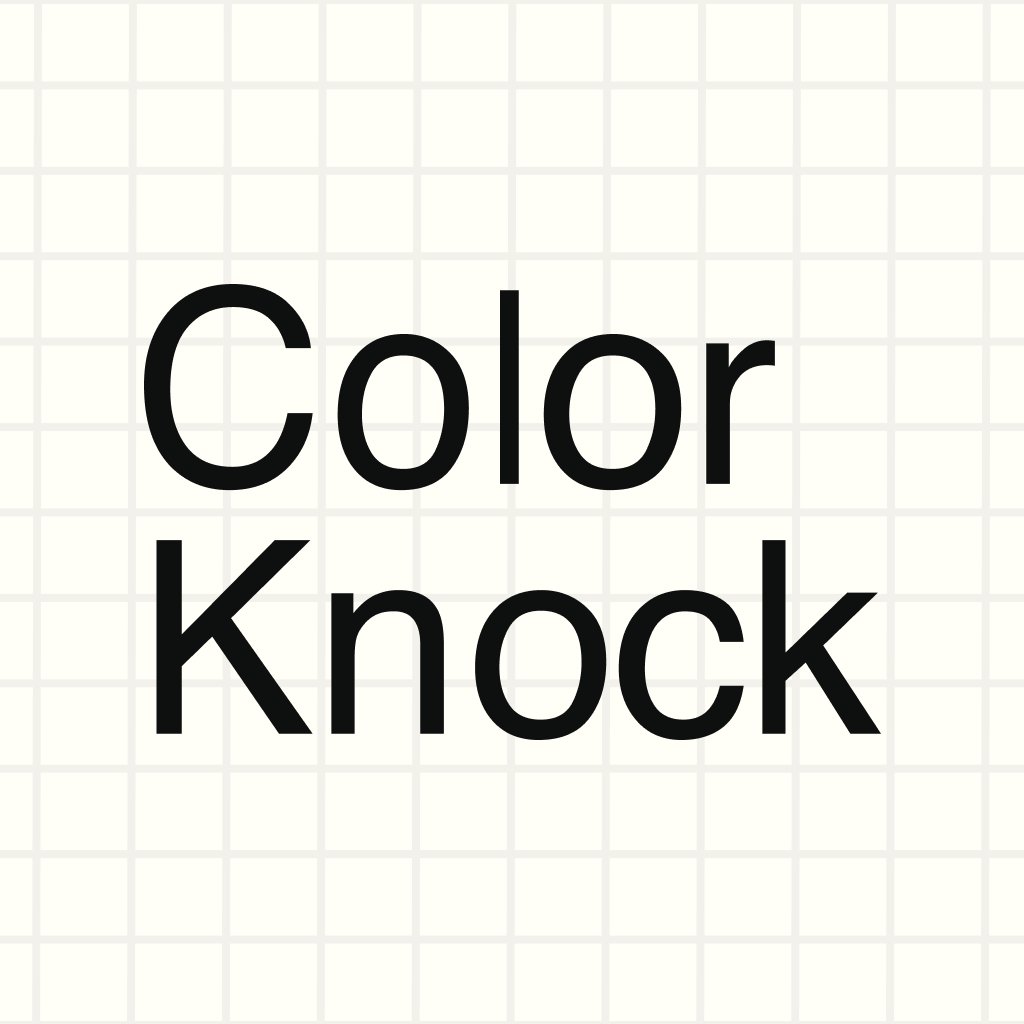
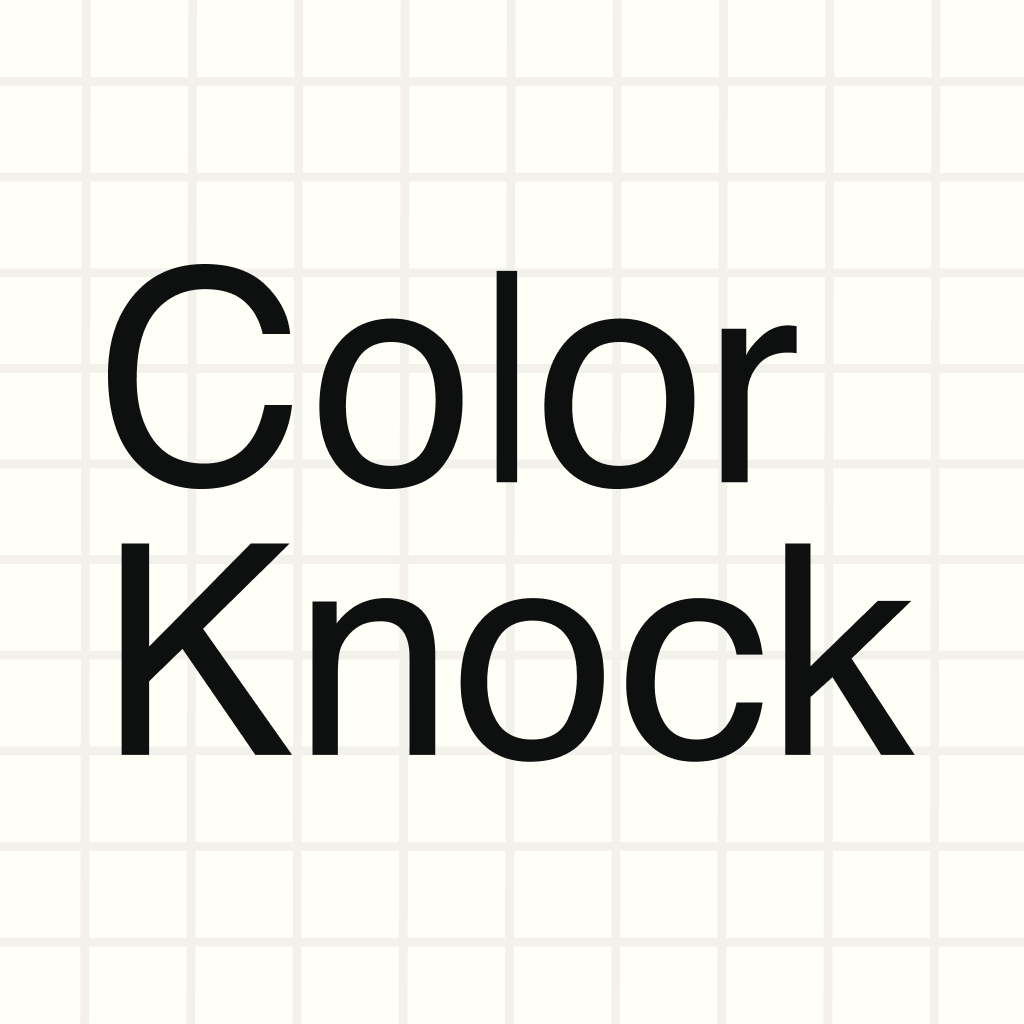
change style

Changed region(s): [[0.0938, 0.5312, 0.9062, 0.75], [0.0938, 0.25, 0.5312, 0.5], [0.5312, 0.3125, 0.7812, 0.5]]

diff --git a/constants/Colors.ts b/constants/Colors.ts
@@ -1,6 +1,6 @@
 export const colors2 = [
-    { "name": "鴇色", "hex": "#F9A1D0", "pccs": "lt24+", "munsell": "7RP 7.5/8", "ruby": "ときいろ", "desc": "トキの翼の内側や風切羽、尾羽などは明るいピンクをしているが、その色からとられた近世の和装で流行した色名。<br>トキの体色は一見すると白だが、飛ぶときにはピンクが見える。<br>昔は日本各地に生息していたので、人々はその色も知っていたのだろう。", "origin": "japanese" },
-    { "name": "韓紅花", "hex": "#E3557F", "pccs": "b2", "munsell": "1.5R 5.5/13", "ruby": "からくれない", "desc": "日本で呉(くれ)と呼んだ中国の地域から渡来した天然の素材という意味で、紅花の赤を「呉藍(くれない)」と呼んでいたことに由来する。<br>平安時代から使われるようになった伝統的な色名。<br>王朝貴族に愛された紅の色だった。", "origin": "japanese" },
+    { "name": "鴇色", "hex": "#fa9cb8", "pccs": "lt24+", "munsell": "7RP 7.5/8", "ruby": "ときいろ", "desc": "トキの翼の内側や風切羽、尾羽などは明るいピンクをしているが、その色からとられた近世の和装で流行した色名。<br>トキの体色は一見すると白だが、飛ぶときにはピンクが見える。<br>昔は日本各地に生息していたので、人々はその色も知っていたのだろう。", "origin": "japanese" },
+    { "name": "韓紅花", "hex": "#e64b6b", "pccs": "b2", "munsell": "1.5R 5.5/13", "ruby": "からくれない", "desc": "日本で呉(くれ)と呼んだ中国の地域から渡来した天然の素材という意味で、紅花の赤を「呉藍(くれない)」と呼んでいたことに由来する。<br>平安時代から使われるようになった伝統的な色名。<br>王朝貴族に愛された紅の色だった。", "origin": "japanese" },
     { "name": "蘇芳", "hex": "#974B52", "pccs": "d2", "munsell": "4R 4/7", "ruby": "すおう", "desc": "インド、マレー半島などを原産地とするマメ科植物の心材を原料とし、その煎汁を天然の素材として染めた色の色名。<br>マレー語のsapangの音に中国人が漢字をあてたのでいろいろな表記がある。<br>この天然の素材は奈良時代にすでに日本に渡来していた。", "origin": "japanese" },
     { "name": "鳶色", "hex": "#7D483E", "pccs": "dk4", "munsell": "7.5R 3.5/5", "ruby": "とびいろ", "desc": "トビは「とんび」ともいう鳥のことで、その羽のような色のこと。<br>鳥の羽の色からとられた色名としては鶸色(ひわいろ)に次いで古いが、それでも近世のこと。<br>江戸時代の前期から用いられるようになった茶色染色の色名。", "origin": "japanese" },
     { "name": "海老茶", "hex": "#6D3D33", "pccs": "dk4", "munsell": "8R 3/4.5", "ruby": "えびちゃ", "desc": "葡萄(ぶどう)の古名を「えび」といった。<br>平安時代の「えびいろ」は山葡萄の果実のような暗い赤紫のこと。<br>近世に葡萄を「えび」とは読まなくなったので、海老の字が当てられてこの色になった。", "origin": "japanese" },
@@ -12,10 +12,10 @@ export const colors2 = [
     { "name": "琥珀色", "hex": "#BF783A", "pccs": "d6", "munsell": "8YR 5.5/6.5", "ruby": "こはくいろ", "desc": "琥珀は植物の樹脂が化石になったもので、そのような色を表す。<br>古名は赤玉、または「くはく」といった。<br>日本語の色名で宝石からとられたものは珍しいが、色名として用いられたのは近代のこと。<br>酒類の色を形容するときによく使われる。", "origin": "japanese" },
     { "name": "朽葉色", "hex": "#897868", "pccs": "dkg9", "munsell": "10YR 5/2", "ruby": "くちばいろ", "desc": "朽ちた落ち葉のような色。<br>この色を中心に、赤みがあれば赤朽葉、黄みは黄朽葉、緑みがあれば青朽葉と呼び分けた。<br>ほかにも朽葉のつく色名がいくつかある。<br>伝統的な色名の中でも特に晩秋の季節感が濃厚な、平安中期からの色名。", "origin": "japanese" },
     { "name": "鬱金色", "hex": "#FCAC00", "pccs": "dkg8", "munsell": "2Y 7.5/12", "ruby": "うこんいろ", "desc": "ショウガ科の植物であるウコンの根で染めた黄の色名。<br>ウコンは原産地の熱帯アジアでは古くから知られていたが、日本では中世末から用いられるようになった。<br>今でも漬物のたくあんの着色やカレー粉の原料などに使用されている。", "origin": "japanese" },
-    { "name": "刈安色", "hex": "#EED67E", "pccs": "sf8", "munsell": "7Y 8.5/7", "ruby": "かりやすいろ", "desc": "奈良時代から黄の染色に用いられてきたイネ科の刈安草は、刈りやすいからこの名がつけられたという。<br>単独で黄を染めるほか、緑を染めるための藍の下染めによく用いられた。<br>古来の染色技術から生まれた伝統的な色名。", "origin": "japanese" },
-    { "name": "黄櫨染", "hex": "#AD4D00", "pccs": "d4", "munsell": "9.5R 4.5/2.5", "ruby": "こうろぜん", "desc": "ミカン科の樹木キハダの樹皮の内皮の色素を天然の素材として染めた色の色名。<br>防虫効果があることから奈良時代から染め紙に用いられ、藍との重ね染めで緑や藍色の染色にも用いられていた。<br>古来の染色材料を今に記録する伝統的な色名の一つ。", "origin": "japanese" },
-    { "name": "海松色", "hex": "#736F55", "pccs": "d11", "munsell": "7.5GY 4/3", "ruby": "みるいろ", "desc": "海藻の一種であるミルは、「万葉集」に海松を詠みこんだ歌が出てくるほど、広く知られていたらしい。<br>現在では一般的なじみがなくなってしまったが、中世以降はオリーブグリーンの色あいを表す、伝統的な色名の代表だった。", "origin": "japanese" },
-    { "name": "金翅雀色", "hex": "#357C4C", "pccs": "v10", "munsell": "3G 4.5/7", "ruby": "ひわいろ", "desc": "黄緑色をした小鳥のヒワの羽の色から名づけられた色名。<br>鳥の羽毛からとられた色名としては古く、中世の終わりには用いられていたとされる。<br>カナリヤが渡来する前は唯一の黄色い小鳥だったのでこの色と書かれている例もある。", "origin": "japanese" },
+    { "name": "刈安色", "hex": "F5E56B", "pccs": "lt8+", "munsell": "7Y 8.5/7", "ruby": "かりやすいろ", "desc": "奈良時代から黄の染色に用いられてきたイネ科の刈安草は、刈りやすいからこの名がつけられたという。<br>単独で黄を染めるほか、緑を染めるための藍の下染めによく用いられた。<br>古来の染色技術から生まれた伝統的な色名。", "origin": "japanese" },
+    { "name": "黄蘗色", "hex": "#FEF263", "pccs": "lt8+", "munsell": "9Y 8/8", "ruby": "きはだいろ", "desc": "ミカン科の樹木キハダの樹皮の内皮の色素を天然の素材として染めた色の色名。<br>防虫効果があることから奈良時代から染め紙に用いられ、藍との重ね染めで緑や藍色の染色にも用いられていた。<br>古来の染色材料を今に記録する伝統的な色名の一つ。", "origin": "japanese" },
+    { "name": "海松色", "hex": "#736F55", "pccs": "d11", "munsell": "9GY 4.5/2.5", "ruby": "みるいろ", "desc": "海藻の一種であるミルは、「万葉集」に海松を詠みこんだ歌が出てくるほど、広く知られていたらしい。<br>現在では一般的なじみがなくなってしまったが、中世以降はオリーブグリーンの色あいを表す、伝統的な色名の代表だった。", "origin": "japanese" },
+    { "name": "鶸色", "hex": "##D6D000", "pccs": "v10", "munsell": "1GY 7.5/8", "ruby": "ひわいろ", "desc": "黄緑色をした小鳥のヒワの羽の色から名づけられた色名。<br>鳥の羽毛からとられた色名としては古く、中世の終わりには用いられていたとされる。<br>カナリヤが渡来する前は唯一の黄色い小鳥だったのでこの色と書かれている例もある。", "origin": "japanese" },
     { "name": "常磐色", "hex": "#357C4C", "pccs": "dp12", "munsell": "3G 4.5/7", "ruby": "ときわいろ", "desc": "松や杉といった常緑樹の葉のような色を表す色名。<br>常緑樹の葉の色が緑色で年中変わらないところから、永久に変わらない色という意味として用いられた。<br>英語のエバーグリーンの同類である。", "origin": "japanese" },
     { "name": "鉄色", "hex": "#244344", "pccs": "dkg2", "munsell": "2.5BG 2.5/2.5", "ruby": "てついろ", "desc": "焼いた鉄の肌のような暗い緑みの青をなぜかこの色という。<br>鉄は「くろがね」と通称されるのだが、英語で鉄のアイアンはブルーかグレイである。<br>江戸後期には緑みのある青の鉄紺など、鉄を修飾語にした染色の色名がよく見られる。", "origin": "japanese" },
     { "name": "緑青色", "hex": "#5F836D", "pccs": "d12", "munsell": "4G 5/4", "ruby": "ろくしょういろ", "desc": "石緑(せきりょく)、孔雀(くじゃく)石からつくられる緑色の色名。<br>炭酸銅、水酸化銅などを主成分とする。<br>銅の錆のような緑色のことでもある。<br>古来、版画の緑色絵の具の代表的なものとしても知られている。", "origin": "japanese" },

diff --git a/components/QuizModal.tsx b/components/QuizModal.tsx
@@ -53,8 +53,15 @@ export const QuizModal: React.FC<Props> = ({ visible, isCorrect, color, onNext, 
         >
             <Animated.View style={[styles.modalOverlay, { opacity: overlayOpacity }]}>
                 <Animated.View style={[styles.modalContainer, { transform: [{ translateY: cardTranslateY }] }]}>
-                    <View style={styles.resultHeader}>
-                        <Text style={[styles.resultText, isCorrect ? styles.correct : styles.incorrect]}>{isCorrect ? '正解！' : '不正解...'}</Text>
+                    <View
+                        style={[
+                            styles.resultHeader,
+                            { backgroundColor: isCorrect ? '#C7F4D2' : '#FFD4DE' }
+                        ]}
+                    >
+                        <Text style={[styles.resultText, { color: isCorrect ? '#04681D' : '#AA1C3D' }]}>
+                            {isCorrect ? '正解！' : '不正解...'}
+                        </Text>
                     </View>
                     <View style={styles.contentBox}>
                         <View style={styles.answerTitleContainer}>
@@ -100,7 +107,6 @@ const styles = StyleSheet.create({
     modalContainer: {
         backgroundColor: colors.background,
         paddingHorizontal: 0,
-        paddingBottom: 32,
         borderTopWidth: 1,
         borderColor: colors.text,
         alignItems: 'center',
@@ -109,9 +115,8 @@ const styles = StyleSheet.create({
     resultHeader: {
         width: '100%',
         alignItems: 'center',
-        borderBottomWidth: 1,
         borderBottomColor: colors.text,
-        marginBottom: 32,
+        borderBottomWidth: 1,
         paddingHorizontal: 24,
         paddingVertical: 16,
         justifyContent: 'center',
@@ -204,6 +209,8 @@ const styles = StyleSheet.create({
     contentBox: {
         width: '100%',
         paddingHorizontal: 24,
+        paddingTop: 24,
+        paddingBottom: 32,
         alignItems: 'center',
     },
 });

diff --git a/components/QuizModeSelector.tsx b/components/QuizModeSelector.tsx
@@ -63,7 +63,7 @@ export const QuizModeSelector: React.FC<Props> = ({ modes, selectedIndex, onSele
                         style={[
                             styles.modeCard,
                             index === selectedIndex && styles.modeCardSelected,
-                            { width: CARD_WIDTH, marginRight: index === modes.length - 1 ? 0 : CARD_GAP, opacity: index === selectedIndex ? 1 : 0.3 }
+                            { width: CARD_WIDTH, marginRight: index === modes.length - 1 ? 0 : CARD_GAP, opacity: index === selectedIndex ? 1 : 0.8 }
                         ]}
                         onPress={() => onSelect(index)}
                         activeOpacity={0.8}
@@ -121,7 +121,8 @@ const styles = StyleSheet.create({
         zIndex: 2,
         alignItems: 'flex-start',
         justifyContent: 'center',
-        paddingVertical: 28,
+        paddingTop: 28,
+        paddingBottom: 24,
         paddingHorizontal: 24,
     },
     modeCardBottom: {

diff --git a/components/QuizHeader.tsx b/components/QuizHeader.tsx
@@ -38,7 +38,7 @@ const styles = StyleSheet.create({
         marginBottom: spacing.lg,
     },
     closeButton: {
-        marginRight: spacing.sm,
+        marginRight: 16,
     },
     progressBarContainer: {
         flex: 1,
@@ -52,6 +52,7 @@ const styles = StyleSheet.create({
         borderWidth: 1,
         borderColor: colors.primary,
         overflow: 'hidden',
+        marginRight: 8,
     },
     progressBarFill: {
         height: '100%',
@@ -59,7 +60,7 @@ const styles = StyleSheet.create({
         borderRadius: borderRadius.sm,
     },
     progressTextContainer: {
-        width: 72,
+        minWidth: 62,
         alignItems: 'flex-end',
     },
     progressTextRow: {
@@ -70,7 +71,7 @@ const styles = StyleSheet.create({
         fontSize: 20,
         fontWeight: 'bold',
         color: colors.primary,
-        marginRight: 4,
+        marginRight: 2,
     },
     progressTotal: {
         fontSize: 12,

diff --git a/app/result.tsx b/app/result.tsx
@@ -29,7 +29,7 @@ export default function Result() {
 
     return (
         <View style={styles.bgBase}>
-            <ImageBackground source={require('../assets/images/result.png')} style={styles.bgImage} imageStyle={styles.bgImageInner}>
+            <ImageBackground source={require('../assets/images/bg_graph_paper.png')} style={styles.bgImage} imageStyle={styles.bgImageInner}>
                 <View style={styles.container}>
                     <View style={styles.card}>
                         <Text style={styles.title}>クイズ完了！</Text>

diff --git a/components/QuizOptionsGrid.tsx b/components/QuizOptionsGrid.tsx
@@ -39,7 +39,7 @@ export const QuizOptionsGrid: React.FC<Props> = ({ options, onSelect, disabled }
                             ]}
                             onPress={() => opt && onSelect(opt)}
                             disabled={disabled || !opt}
-                            activeOpacity={opt ? 0.7 : 1}
+                            activeOpacity={opt ? 0.8 : 1}
                         >
                             <Text
                                 style={[styles.optionText, !opt && { color: 'transparent' }]}

diff --git a/components/GradeRadioGroup.tsx b/components/GradeRadioGroup.tsx
@@ -16,6 +16,7 @@ export const GradeRadioGroup: React.FC<Props> = ({ grades, selectedGrade, onSele
                     key={grade}
                     style={[styles.button, selectedGrade === grade && styles.buttonSelected]}
                     onPress={() => onSelect(grade)}
+                    activeOpacity={0.8}
                 >
                     <Text style={[styles.text, selectedGrade === grade && styles.textSelected]}>{grade}</Text>
                 </TouchableOpacity>

diff --git a/app/index.tsx b/app/index.tsx
@@ -62,7 +62,7 @@ export default function Home() {
     return (
         <View style={{ flex: 1, backgroundColor: '#FFFEF7' }}>
             <ImageBackground
-                source={require('../assets/images/home.png')}
+                source={require('../assets/images/bg_graph_paper.png')}
                 style={{ flex: 1 }}
                 resizeMode="cover"
             >

diff --git a/components/PrimaryButton.tsx b/components/PrimaryButton.tsx
@@ -13,7 +13,7 @@ export const PrimaryButton: React.FC<Props> = ({ onPress, children, style, textS
     <TouchableOpacity
         style={[styles.button, style, disabled && styles.disabled]}
         onPress={onPress}
-        activeOpacity={0.7}
+        activeOpacity={0.8}
         disabled={disabled}
     >
         <Text style={[styles.text, textStyle]}>{children}</Text>

diff --git a/components/SecondaryButton.tsx b/components/SecondaryButton.tsx
@@ -14,7 +14,7 @@ export const SecondaryButton: React.FC<Props> = ({ onPress, children, style, tex
     <TouchableOpacity
         style={[styles.button, style, disabled && styles.disabled]}
         onPress={onPress}
-        activeOpacity={0.7}
+        activeOpacity={0.8}
         disabled={disabled}
     >
         <Text style={[styles.text, textStyle]}>{children}</Text>
